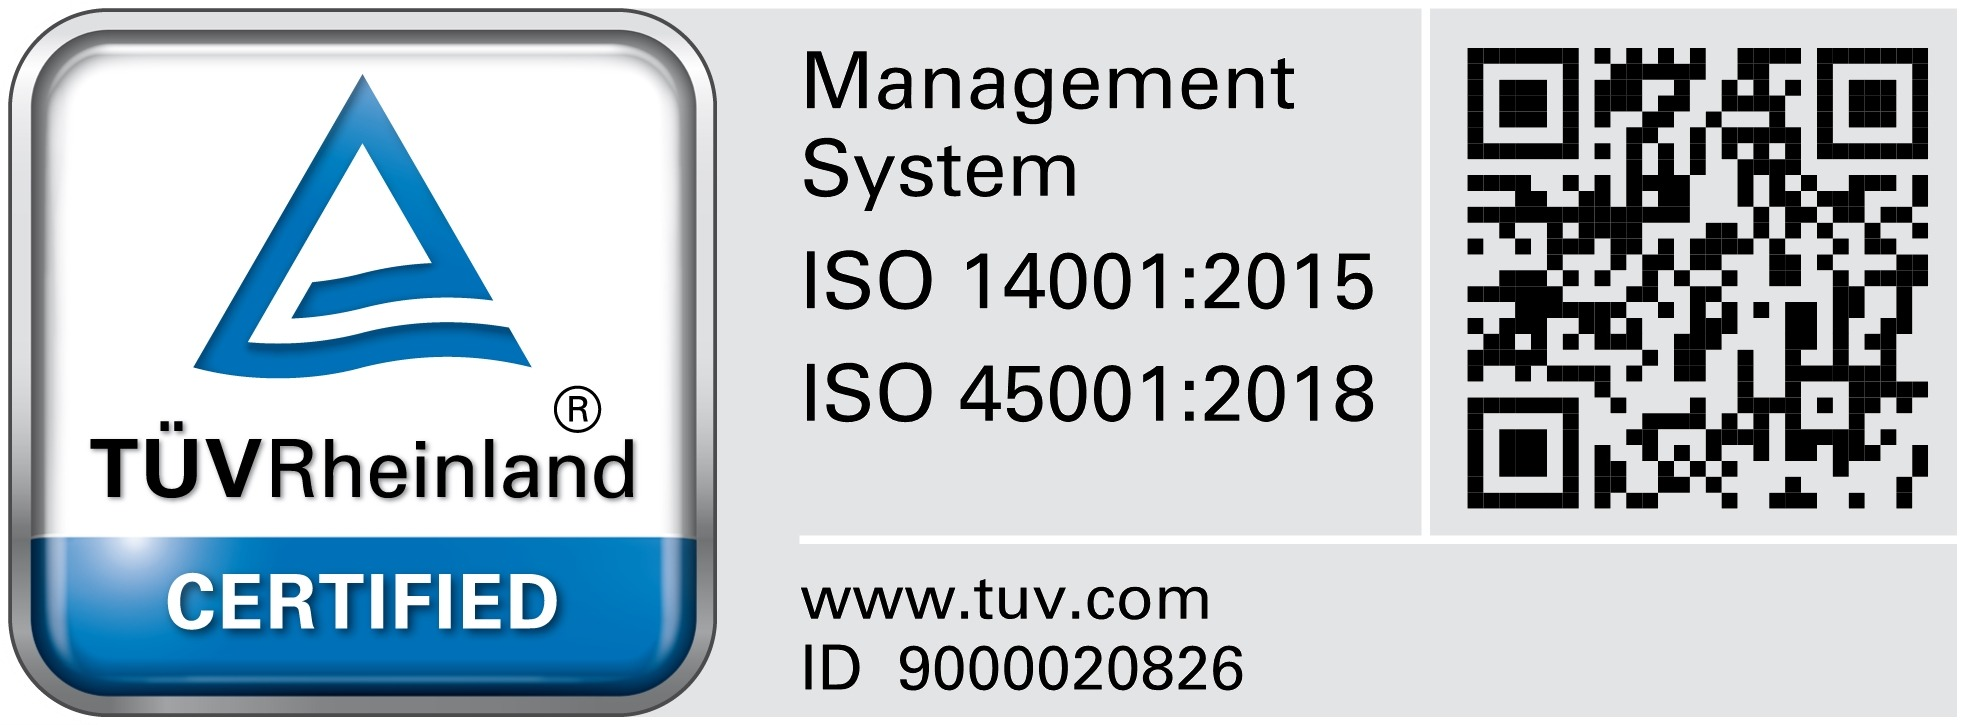
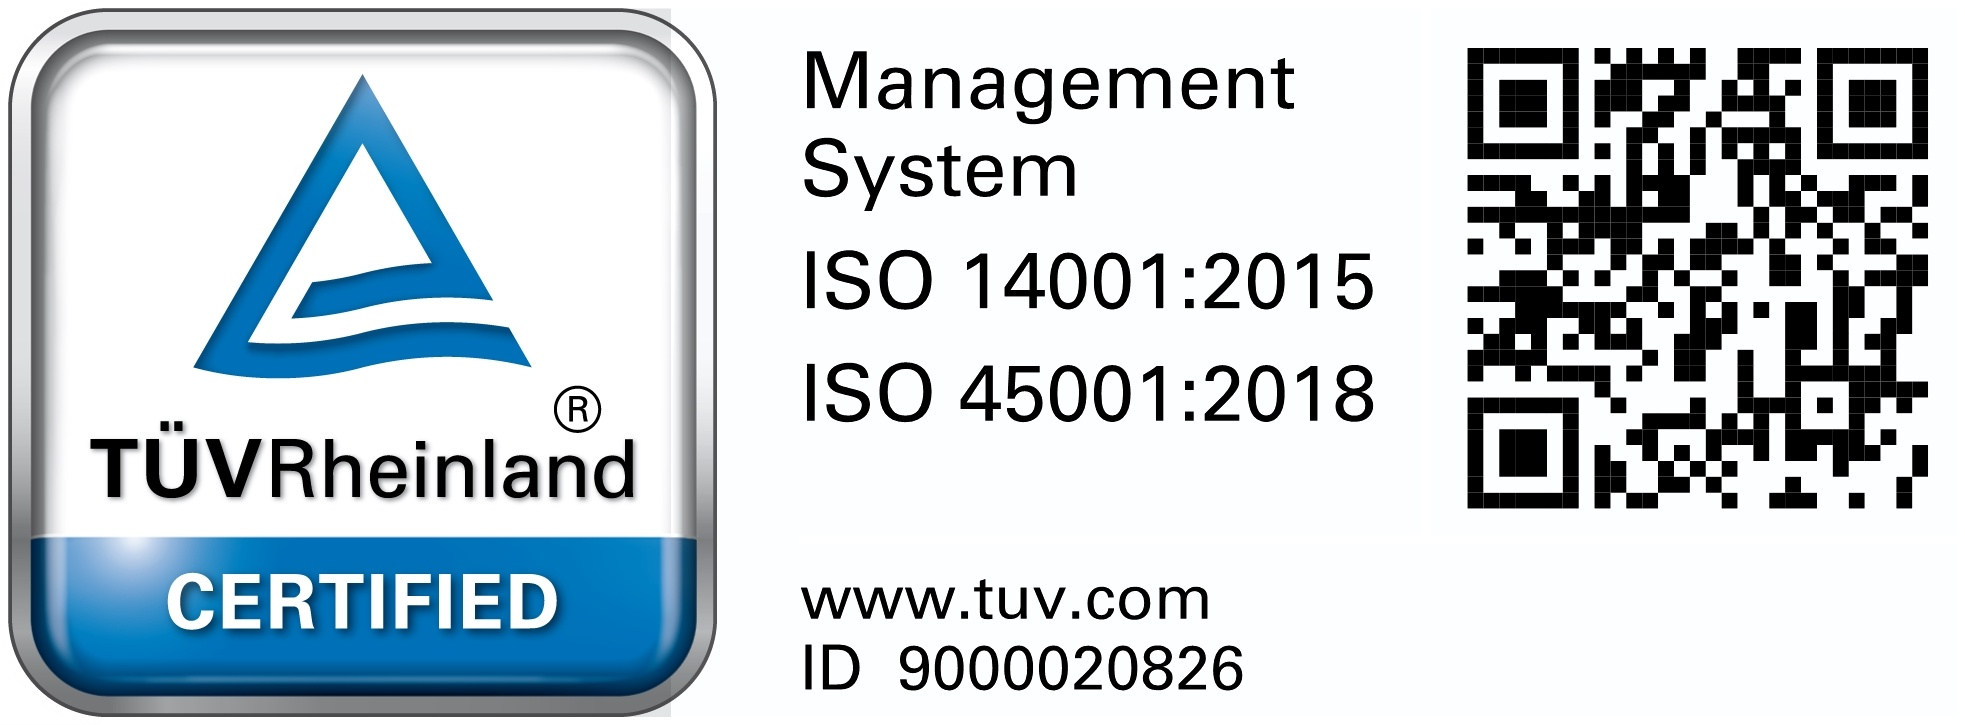
TÜV senza fondo grigio
Claude-Session: https://claude.ai/code/session_01GZ9H1D3qFR8bz622oAwBr9

diff --git a/index.html b/index.html
@@ -27,7 +27,7 @@
 <meta name="apple-mobile-web-app-title" content="ASTRA">
 <link rel="preload" href="fonts/Inter-400.woff2" as="font" type="font/woff2" crossorigin>
 <link rel="preload" href="fonts/InterTight-800.woff2" as="font" type="font/woff2" crossorigin>
-<link rel="stylesheet" href="assets/app.css?v=18">
+<link rel="stylesheet" href="assets/app.css?v=19">
 <script type="application/ld+json">
 {"@context":"https://schema.org","@type":"EducationalOrganization","name":"ASTRA S.r.l.","description":"Centro di Formazione AiFOS","address":{"@type":"PostalAddress","streetAddress":"Via Potito Randi, 6","postalCode":"64100","addressLocality":"Teramo","addressRegion":"TE","addressCountry":"IT"},"telephone":"+39 0861 413103","email":"info@astrastudio.it","vatID":"IT00665240677","foundingDate":"1987"}
 </script>
@@ -164,10 +164,10 @@
 <div class="toast" id="toast" role="status" aria-live="polite"></div>
 <button class="su" id="su" aria-label="Torna su"><svg viewBox="0 0 24 24" fill="none" stroke="currentColor" stroke-width="2.4" stroke-linecap="round" stroke-linejoin="round" aria-hidden="true"><path d="m6 14 6-6 6 6"/></svg></button>
 
-<script src="assets/data.js?v=18"></script>
-<script src="assets/listino.js?v=18"></script>
-<script src="assets/foto.js?v=18"></script>
-<script src="assets/app.js?v=18"></script>
+<script src="assets/data.js?v=19"></script>
+<script src="assets/listino.js?v=19"></script>
+<script src="assets/foto.js?v=19"></script>
+<script src="assets/app.js?v=19"></script>
 <script>if ('serviceWorker' in navigator && location.protocol !== 'file:') addEventListener('load', () => navigator.serviceWorker.register('sw.js').catch(() => {}));</script>
 </body>
 </html>

diff --git a/assets/app.js b/assets/app.js
@@ -284,8 +284,8 @@
       <h3>${esc(n.titolo)}</h3><p>${esc(n.testo)}</p><span class="rif">Riferimento: ${esc(n.rif)}</span></article>`; };
   const certificazioni = () => [
     ['loghi/cert/certiquality-iso9001.png', 'UNI EN ISO 9001:2015', 'Sistema di gestione per la qualità', 'CISQ/CERTIQUALITY · cert. n. 3466'],
-    ['loghi/cert/tuv-rheinland-iso14001-iso45001.jpg', 'UNI EN ISO 14001:2015', 'Sistema di gestione ambientale', 'TÜV Rheinland · cert. n. 01 104 2217518'],
-    ['loghi/cert/tuv-rheinland-iso14001-iso45001.jpg', 'UNI ISO 45001:2018', 'Salute e sicurezza sul lavoro', 'TÜV Rheinland · cert. n. 01 213 2217518'],
+    ['loghi/cert/tuv-rheinland-iso14001-iso45001.jpg?v=2', 'UNI EN ISO 14001:2015', 'Sistema di gestione ambientale', 'TÜV Rheinland · cert. n. 01 104 2217518'],
+    ['loghi/cert/tuv-rheinland-iso14001-iso45001.jpg?v=2', 'UNI ISO 45001:2018', 'Salute e sicurezza sul lavoro', 'TÜV Rheinland · cert. n. 01 213 2217518'],
     ['loghi/cert/mscert-pdr125.png', 'UNI/PdR 125:2022', 'Parità di genere', 'MSCert · cert. n. 68/PdR 125']].map(([img, t, d, e], i) => `<div class="rivela ritardo-${i}"><span class="marchio"><img src="${img}" alt="Marchio di certificazione ${t} – ASTRA S.r.l." loading="lazy" decoding="async"></span><b>${t}</b><span>${d}</span><span class="ente">${e}</span></div>`).join('') + `<p class="cert-nota">Certificazioni di ASTRA S.r.l. Marchi ufficiali degli organismi di certificazione, come pubblicati su <a href="https://www.astrastudio.it/riconoscimenti/" target="_blank" rel="noopener">astrastudio.it</a>.</p>`;
 
   /* ---------- Destinatari e durate (ricerca avanzata) ---------- */

diff --git a/sw.js b/sw.js
@@ -1,5 +1,5 @@
 /* Service worker ASTRA Formazione – © 2026 dr. Jonathan D'Eugenio */
-const V = 'astra-v18';
+const V = 'astra-v19';
 const BASE = ['./', './index.html', './manifest.webmanifest', './assets/app.css', './assets/app.js', './assets/data.js', './assets/listino.js', './assets/foto.js', './fonts/Inter-400.woff2', './fonts/Inter-600.woff2', './fonts/InterTight-800.woff2',
   './loghi/astra_logo.svg', './loghi/aifos_logo.svg', './loghi/jd_logo_bianco.svg', './app/icon-192.png', './app/qr-app.svg'];
 self.addEventListener('install', e => { e.waitUntil(caches.open(V).then(c => c.addAll(BASE)).then(() => self.skipWaiting())); });
